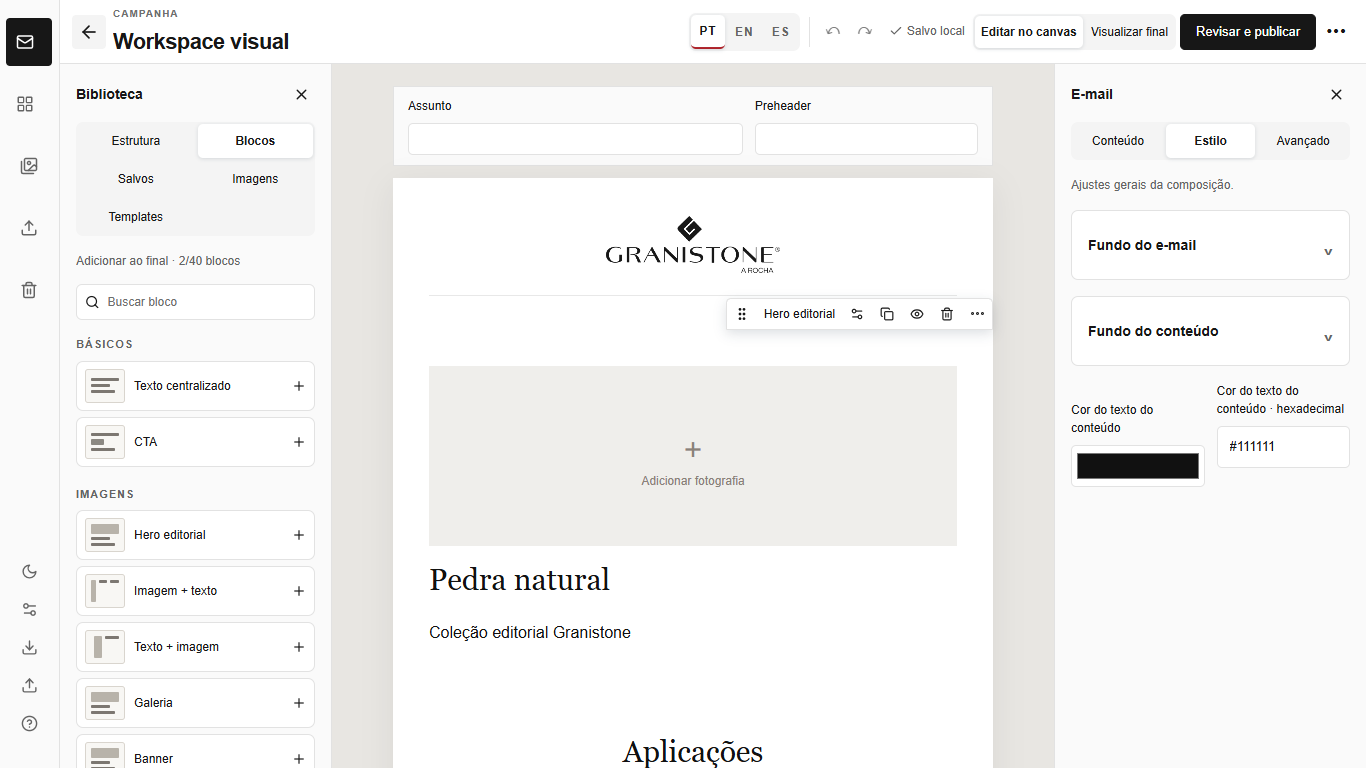
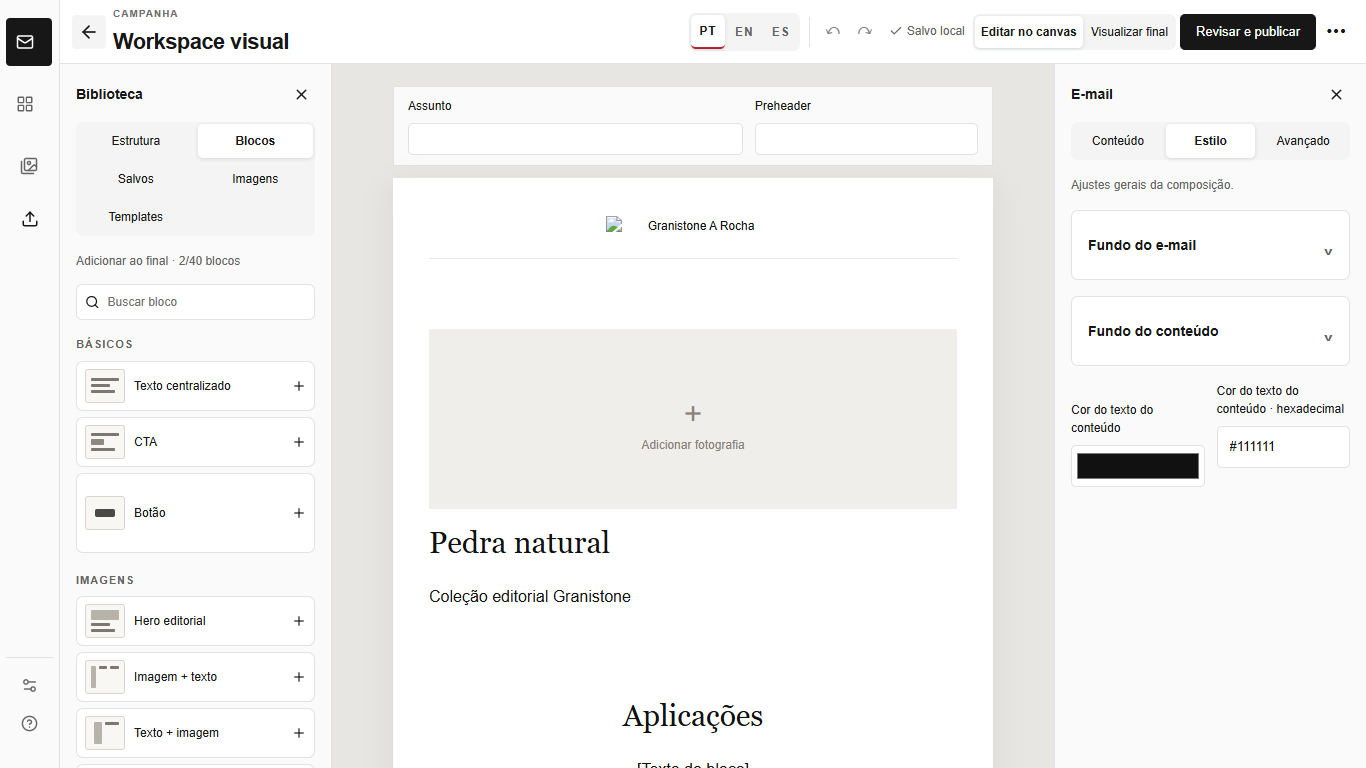
Fix Spanish campaign content and migration

diff --git a/data/demo.ts b/data/demo.ts
@@ -1,4 +1,5 @@
-import { createCampaign, emptyContent, richText } from '@/campaigns/model';
+import { convertSections } from '@/blocks/model';
+import { createCampaign, emptyContent, plainText, richText } from '@/campaigns/model';
 import type { Campaign, CampaignContent } from '@/types/campaign';
 
 const content = (values: Partial<CampaignContent>): CampaignContent => ({
@@ -6,9 +7,8 @@ const content = (values: Partial<CampaignContent>): CampaignContent => ({
   ...values,
 });
 
-export function demoCampaigns(): Campaign[] {
-  return [
-    createCampaign({
+function crystalPalaceCampaign(): Campaign {
+  return createCampaign({
       title: 'Crystal Palace · Arquitetura',
       date: '2026-10-01',
       campaignType: 'Produto',
@@ -16,7 +16,7 @@ export function demoCampaigns(): Campaign[] {
       objective: 'Apresentar o material com linguagem editorial e foco em especificação.',
       template: 'product-architect',
       status: 'Em produção',
-      language: 'PT / EN',
+      language: 'PT / EN / ES',
       materialId: 'crystal-palace',
       demo: true,
       content: {
@@ -46,8 +46,71 @@ export function demoCampaigns(): Campaign[] {
           cta: 'Discover the material',
           ctaUrl: 'https://www.granistone.com.br/',
         }),
+        es: content({
+          subject: 'Crystal Palace: materia, luz y arquitectura',
+          preheader: 'Una mirada editorial para proyectos definidos por la piedra natural.',
+          kicker: 'PIEDRA NATURAL · ARQUITECTURA',
+          headline: 'La naturaleza diseña.\nLa arquitectura revela.',
+          subheadline: 'Crystal Palace transforma las superficies en presencia.',
+          body: richText('Vetas, movimiento y profundidad crean una composición que cambia con la luz. Crystal Palace muestra cómo la piedra natural puede guiar el concepto de un ambiente.\nUtiliza esta campaña como punto de partida y sustituye el contenido de demostración por la información técnica aprobada.'),
+          materialName: 'Crystal Palace',
+          features: 'Expresión visual distintiva\nAcabados por confirmar con el equipo técnico',
+          applications: 'Interiores, paneles y superficies — valida la aplicación en cada proyecto',
+          cta: 'Descubre el material',
+          ctaUrl: 'https://www.granistone.com.br/',
+        }),
       },
-    }),
+    });
+}
+
+const placeholder = (value: string) => /^\[(Título do bloco|Texto do bloco|Texto do botão)( 2)?\]$/.test(value);
+
+/** Completes the original Crystal Palace demo without overwriting content edited by a user. */
+export function upgradeDemoCampaign(campaign: Campaign): Campaign {
+  if (!campaign.demo || campaign.title !== 'Crystal Palace · Arquitetura') return campaign;
+  const reference = crystalPalaceCampaign();
+  const spanish = { ...campaign.content.es };
+  for (const [key, value] of Object.entries(reference.content.es)) {
+    const field = key as keyof CampaignContent;
+    if (field === 'body') {
+      if (!plainText(spanish.body).trim()) spanish.body = structuredClone(reference.content.es.body);
+    } else if (typeof value === 'string' && !String(spanish[field] ?? '').trim()) {
+      (spanish[field] as string) = value;
+    }
+  }
+
+  const translations = new Map<string, string>();
+  const richBodies = new Map<string, CampaignContent['body']>();
+  for (const section of convertSections(reference)) {
+    for (const [field, value] of Object.entries(section.content.pt)) {
+      if (value.trim()) translations.set(`${section.type}\u0000${field}\u0000${value}`, section.content.es[field] ?? '');
+    }
+    if (section.richBody?.pt && section.richBody.es) richBodies.set(`${section.type}\u0000${plainText(section.richBody.pt)}`, section.richBody.es);
+  }
+  const sections = campaign.sections?.map(section => {
+    const next = structuredClone(section);
+    for (const [field, value] of Object.entries(section.content.pt)) {
+      const translated = translations.get(`${section.type}\u0000${field}\u0000${value}`);
+      if (translated && (!next.content.es[field]?.trim() || placeholder(next.content.es[field]))) next.content.es[field] = translated;
+    }
+    if (section.richBody?.pt && (!section.richBody.es || !plainText(section.richBody.es).trim())) {
+      const translated = richBodies.get(`${section.type}\u0000${plainText(section.richBody.pt)}`);
+      if (translated) next.richBody = { ...next.richBody, es: structuredClone(translated) };
+    }
+    if (next.richBody?.es) next.content.es.text = plainText(next.richBody.es);
+    return next;
+  });
+  return {
+    ...campaign,
+    language: 'PT / EN / ES',
+    content: { ...campaign.content, es: spanish },
+    ...(sections ? { sections } : {}),
+  };
+}
+
+export function demoCampaigns(): Campaign[] {
+  return [
+    crystalPalaceCampaign(),
     createCampaign({
       title: 'Dia da Arquitetura',
       date: '2026-10-05',

diff --git a/tests/domain.test.ts b/tests/domain.test.ts
@@ -3,7 +3,7 @@ import { test } from 'node:test';
 import { utils, write } from 'xlsx';
 import { normalizeRow, parseDate } from '../import/normalize';
 import { parseWorkbook, exampleWorkbook } from '../import/xlsx';
-import { changeTemplate, createCampaign, editCampaign, richText } from '../campaigns/model';
+import { changeTemplate, createCampaign, editCampaign, emptyContent, plainText, richText } from '../campaigns/model';
 import { suggestTemplate, templates } from '../templates/registry';
 import { renderEmail } from '../export/render';
 import { defaultBrand } from '../data/brand';
@@ -14,6 +14,9 @@ import { campaignFileName } from '../export/download';
 import { campaignFingerprint } from '../campaigns/identity';
 import { applyTranslation, translationItems } from '../lib/translation';
 import { GRANISTONE_UNSUBSCRIBE_URL } from '../data/granistone.config';
+import { demoCampaigns, upgradeDemoCampaign } from '../data/demo';
+import { convertSections } from '../blocks/model';
+import { createSection } from '../blocks/registry';
 
 test('normalizes Portuguese headings, dates, audience and bilingual planning', () => {
   const { campaign, warnings } = normalizeRow({
@@ -86,6 +89,27 @@ test('Spanish translation preserves Portuguese, rich formatting, links and share
   assert.equal(spanish.heroImage, campaign.content.pt.heroImage);
   assert.deepEqual(spanish.body.content?.[0].content?.[0].marks, [{ type: 'bold' }]);
   assert.equal(spanish.body.content?.[0].content?.[0].text, 'Una historia');
+});
+test('Crystal Palace demo includes Spanish and upgrades an already saved empty version', () => {
+  const current = demoCampaigns()[0];
+  assert.equal(current.language, 'PT / EN / ES');
+  assert.equal(current.content.es.headline, 'La naturaleza diseña.\nLa arquitectura revela.');
+  assert.match(plainText(current.content.es.body), /piedra natural/);
+
+  const legacy = structuredClone(current);
+  legacy.language = 'PT / EN';
+  legacy.content.es = emptyContent();
+  legacy.sections = convertSections(legacy);
+  const upgraded = upgradeDemoCampaign(legacy);
+  assert.equal(upgraded.content.es.features, 'Expresión visual distintiva\nAcabados por confirmar con el equipo técnico');
+  assert.ok(upgraded.sections?.some(section => section.content.es.text?.includes('Expresión visual distintiva')));
+  assert.ok(upgraded.sections?.some(section => section.richBody?.es && plainText(section.richBody.es).includes('Vetas, movimiento')));
+});
+test('new block placeholders are localized for English and Spanish', () => {
+  const section = createSection('centeredText');
+  assert.equal(section.content.pt.title, '[Título do bloco]');
+  assert.equal(section.content.en.title, '[Block title]');
+  assert.equal(section.content.es.title, '[Título del bloque]');
 });
 test('import identity and export filenames stay stable across repeated runs', () => {
   const first = normalizeRow({

diff --git a/blocks/registry.ts b/blocks/registry.ts
@@ -14,8 +14,18 @@ const picture = [image, alt], copy = [title, text], button = [label, link];
 const second = (fields: BlockField[]) => fields.map(f => ({ ...f, key: f.key + '2', label: f.label + ' 2' }));
 export interface BlockDefinition { name: string; icon: 'image' | 'text' | 'layout'; fields: BlockField[]; editor: 'fields'; render: typeof sectionRenderers[SectionType]; compatibleTemplates: 'all' | TemplateId[]; defaults: () => Section['content']; validate: (value: unknown) => boolean }
 function define(type: SectionType, name: string, fields: BlockField[], icon: BlockDefinition['icon'] = 'layout'): BlockDefinition {
+  const placeholders: Record<Language, Record<string, string>> = {
+    pt: { title: 'Título do bloco', text: 'Texto do bloco', label: 'Texto do botão' },
+    en: { title: 'Block title', text: 'Block text', label: 'Button text' },
+    es: { title: 'Título del bloque', text: 'Texto del bloque', label: 'Texto del botón' },
+  };
   return { name, icon, fields, editor: 'fields', render: sectionRenderers[type], compatibleTemplates: 'all',
-    defaults: () => Object.fromEntries((['pt', 'en', 'es'] as Language[]).map(lang => [lang, Object.fromEntries(fields.map(f => [f.key, f.kind === 'text' || f.kind === 'textarea' ? `[${f.label}]` : '']))])) as Section['content'],
+    defaults: () => Object.fromEntries((['pt', 'en', 'es'] as Language[]).map(lang => [lang, Object.fromEntries(fields.map(f => {
+      if (f.kind !== 'text' && f.kind !== 'textarea') return [f.key, ''];
+      const baseKey = f.key.replace(/2$/, '');
+      const suffix = f.key.endsWith('2') ? ' 2' : '';
+      return [f.key, `[${placeholders[lang][baseKey] ?? f.label}${suffix}]`];
+    }))])) as Section['content'],
     validate: value => !!value && typeof value === 'object' && !Array.isArray(value) && Object.keys(value).every(key => fields.some(f => f.key === key)) && fields.every(f => typeof (value as Record<string, unknown>)[f.key] === 'string' && String((value as Record<string, unknown>)[f.key]).length <= (f.kind === 'image' ? 2000000 : 20000)),
   };
 }

diff --git a/tests/browser/studio.spec.ts b/tests/browser/studio.spec.ts
@@ -15,6 +15,12 @@ test('complete production flow: XLSX, template, Maily, PT/EN, preview, persisten
       contentType: 'image/png',
     }),
   );
+  await page.route('https://studio.example.com/brand/**', (route) =>
+    route.fulfill({
+      path: `public${new URL(route.request().url()).pathname}`,
+      contentType: 'image/png',
+    }),
+  );
   await page.goto('/');
   await expect(page.getByRole('heading', { name: 'Campanhas', exact: true })).toBeVisible();
   await page.screenshot({ path: 'test-results/campaigns-desktop.png', fullPage: true });
@@ -61,11 +67,7 @@ test('complete production flow: XLSX, template, Maily, PT/EN, preview, persisten
   await page.getByRole('button', { name: 'Conteúdo', exact: true }).click();
   await page.getByRole('button', { name: 'Revisar e publicar', exact: true }).click();
   await page.getByRole('dialog', { name: 'Revisar e publicar' }).getByRole('button', { name: 'Exportar HTML' }).click();
-  await expect(page.getByRole('button', { name: 'Baixar HTML', exact: true })).toBeDisabled();
-  const draftPromise = page.waitForEvent('download');
-  await page.getByRole('button', { name: 'Baixar HTML com fotos locais', exact: true }).click();
-  const draft = await draftPromise;
-  expect(draft.suggestedFilename()).toContain('-pt-local.html');
+  await expect(page.getByRole('button', { name: 'Baixar HTML', exact: true })).toBeEnabled();
   await page.getByRole('button', { name: 'Fechar', exact: true }).click();
   await page.getByRole('button', { name: 'Configurações', exact: true }).click();
   await page.getByRole('dialog', { name: 'Configurações' }).getByRole('button', { name: /Marca e rodapé/ }).click();

diff --git a/server/campaigns.ts b/server/campaigns.ts
@@ -1,4 +1,5 @@
 import { defaultBrand } from '@/data/brand';
+import { upgradeDemoCampaign } from '@/data/demo';
 import { emptyContent, languageStates, reconcileLanguageState } from '@/campaigns/model';
 import { isCampaign, migrateBrand } from '@/lib/storage';
 import type { Campaign } from '@/types/campaign';
@@ -7,7 +8,7 @@ import { hashBytes } from './assets';
 import { HttpError, identifier, type Env } from './platform';
 type Actor = { id: string; email: string };
 interface Row { id: string; data: string; revision: number; created_at: string; created_by: string; updated_at: string; updated_by: string; deleted_at: string | null; deleted_by: string | null }
-const model = (row: Row): SharedCampaign => ({ campaign: JSON.parse(row.data), revision: row.revision, createdAt: row.created_at, createdBy: row.created_by, updatedAt: row.updated_at, updatedBy: row.updated_by, deletedAt: row.deleted_at, deletedBy: row.deleted_by });
+const model = (row: Row): SharedCampaign => ({ campaign: upgradeDemoCampaign(JSON.parse(row.data)), revision: row.revision, createdAt: row.created_at, createdBy: row.created_by, updatedAt: row.updated_at, updatedBy: row.updated_by, deletedAt: row.deleted_at, deletedBy: row.deleted_by });
 export function expectedRevision(value: unknown) {
   if (!Number.isSafeInteger(value) || Number(value) < 0) throw new HttpError(400, 'Informe a revisão que você abriu.');
   return Number(value);

diff --git a/lib/storage.ts b/lib/storage.ts
@@ -3,7 +3,7 @@ import { defaultBrand } from '@/data/brand';
 import { sectionsValid } from '@/blocks/registry';
 import { designValid } from '@/lib/tokens/backgrounds';
 import { GRANISTONE_UNSUBSCRIBE_URL } from '@/data/granistone.config';
-import { demoCampaigns } from '@/data/demo';
+import { demoCampaigns, upgradeDemoCampaign } from '@/data/demo';
 import { emptyContent, languageStates } from '@/campaigns/model';
 import type { SyncMetadata } from '@/types/workspace';
 import { templates, getTemplate } from '@/templates/registry';
@@ -139,7 +139,8 @@ export function decodeBackup(text: string): StudioData {
     throw new Error('O backup contém identificadores duplicados.');
   return {
     version: 2,
-    campaigns: value.campaigns.map((campaign) => {
+    campaigns: value.campaigns.map((storedCampaign) => {
+      const campaign = upgradeDemoCampaign(storedCampaign);
       const missing = getTemplate(campaign.template).blocks.filter(
         (id) => !campaign.blocks.some((block) => block.id === id),
       );

diff --git a/tests/browser/content.spec.ts b/tests/browser/content.spec.ts
@@ -1,6 +1,16 @@
 import { test, expect } from '@playwright/test';
 import { exampleWorkbook } from '../../import/xlsx';
 
+test('Crystal Palace demo opens with complete Spanish content', async ({ page }) => {
+  await page.goto('/');
+  await page.getByRole('button', { name: 'Crystal Palace · Arquitetura', exact: true }).click();
+  await page.getByRole('button', { name: 'ESPAÑOL', exact: true }).click();
+  const canvas = page.locator('.visual-stage');
+  await expect(canvas.getByText('La naturaleza diseña.')).toBeVisible();
+  await expect(canvas.getByText(/Expresión visual distintiva/)).toBeVisible();
+  await expect(canvas.getByText('[Título do bloco]', { exact: true })).toHaveCount(0);
+});
+
 test('material autofill, image preview and restricted rich formatting remain editable', async ({
   page,
 }) => {

diff --git a/tests/browser/designs.spec.ts b/tests/browser/designs.spec.ts
@@ -19,7 +19,7 @@ test('free blocks, saved library, campaign copy and shared custom templates work
   await page.locator('.editor-secondary summary').click(); await page.getByRole('button', { name: 'Configurações avançadas', exact: true }).click();
   await page.getByRole('button', { name: 'Adicionar bloco', exact: true }).click();
   const catalog = page.getByRole('dialog', { name: 'Adicionar bloco' });
-  await expect(catalog.locator('.block-catalog button')).toHaveCount(16);
+  await expect(catalog.locator('.block-catalog button')).toHaveCount(17);
   await catalog.getByRole('button', { name: 'Texto centralizado', exact: true }).click();
   const cards = page.locator('.section-card');
   await cards.first().getByLabel('Título do bloco', { exact: true }).fill('Pedra natural');
